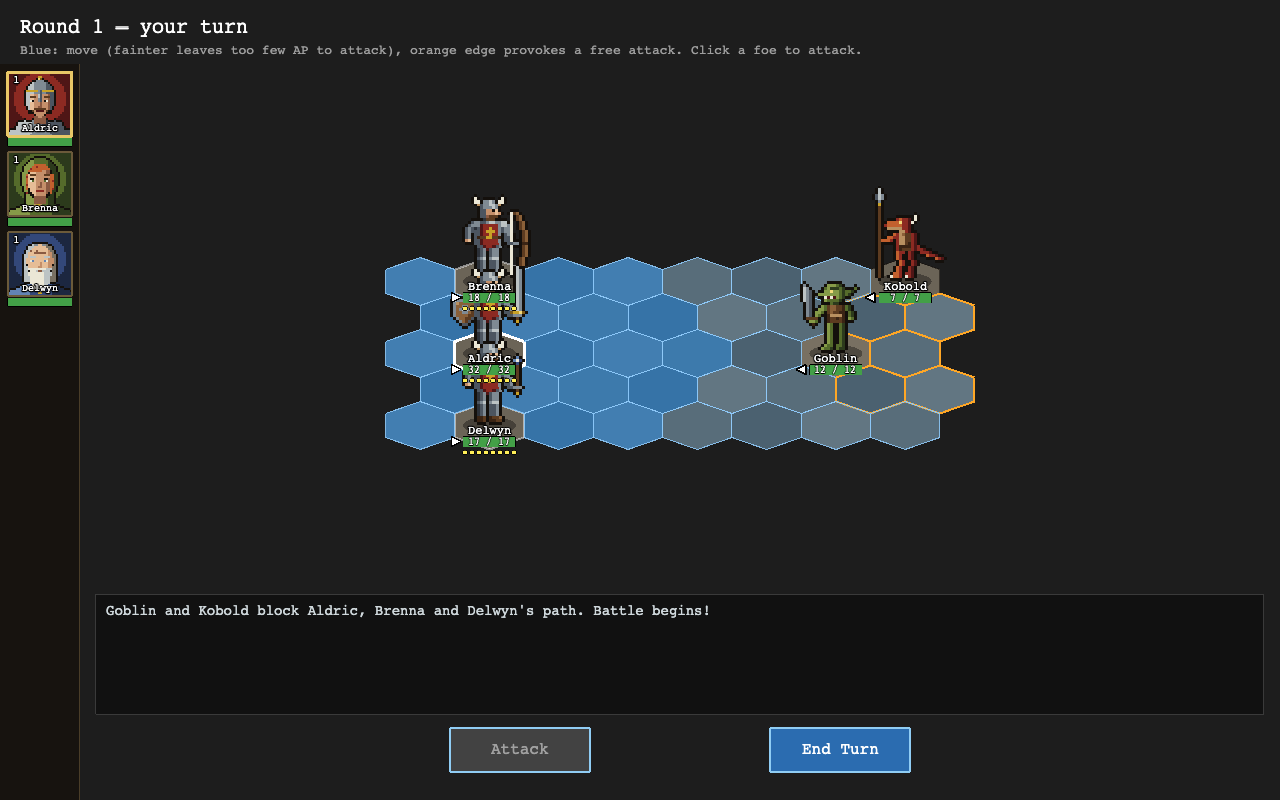
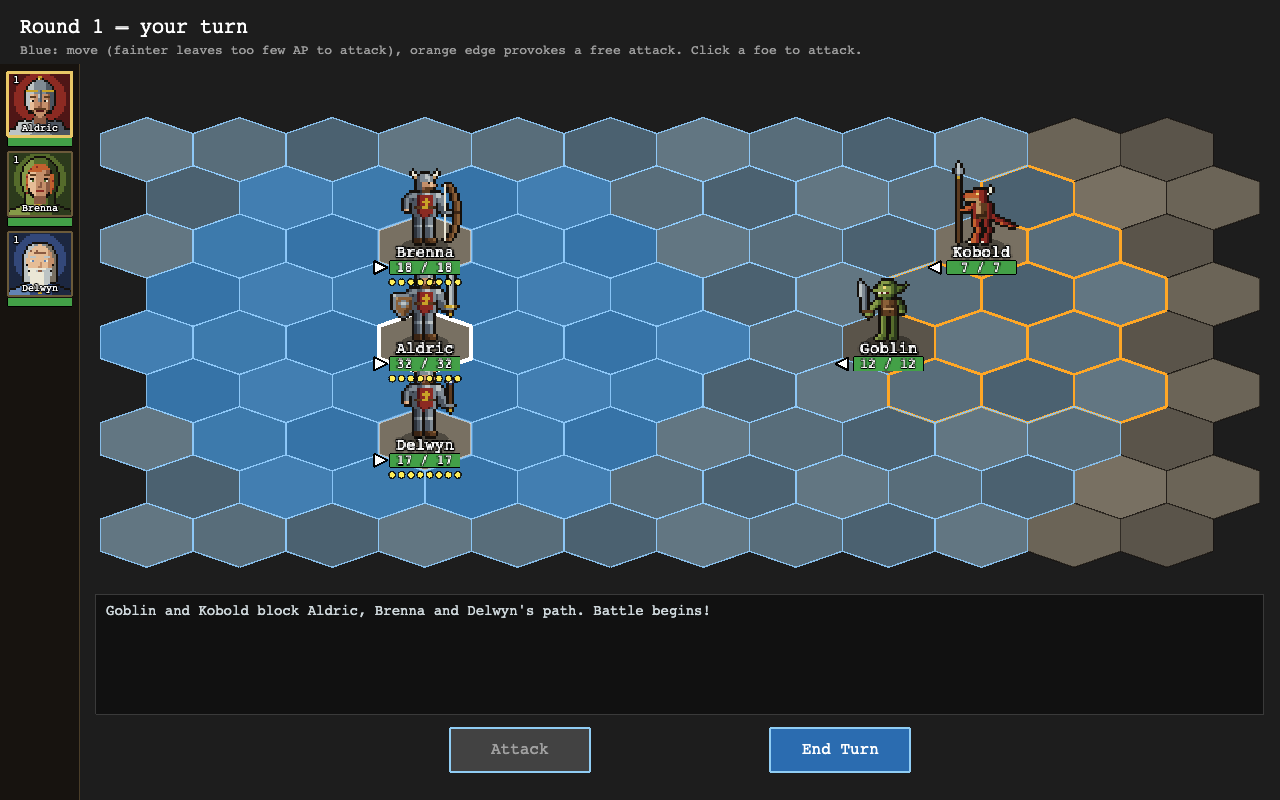
Fight battles on a 12x9 board, the lines two hexes in from every edge
Gives room to flank, fall back and come round. Both sides keep the
distance they had, shifted by whole pairs of rows to keep the odd-r
shape, so the campaign run holds: 342 of 500 beat the Source (was 344).

diff --git a/src/game/encounters.ts b/src/game/encounters.ts
@@ -15,11 +15,11 @@ export function heroId(index: number): UnitId {
 
 /**
  * Where the party lines up, as [column, row], in party order: the first three
- * down the second column with a hex between them, so their sprites and
+ * down the fourth column with a hex between them, so their sprites and
  * nameplates stand clear of each other, and the rest in the gaps behind.
  * Every encounter's board must have these hexes, and keep its foes off them.
  */
-const PARTY_START: ReadonlyArray<readonly [number, number]> = [[1, 2], [1, 0], [1, 4], [0, 1], [0, 3], [0, 2]]
+const PARTY_START: ReadonlyArray<readonly [number, number]> = [[3, 4], [3, 2], [3, 6], [2, 3], [2, 5], [2, 4]]
 
 function partyUnits(party: readonly Fighter[]): UnitSetup[] {
   if (party.length > PARTY_START.length) throw new Error(`No room for a party of ${party.length}`)
@@ -85,7 +85,12 @@ const FOE_STATS: Record<FoeSlot['kind'], CombatantStats> = {
   horror: BLIGHT_HORROR_STATS,
 }
 
-const BOARD = { cols: 8, rows: 5 }
+/**
+ * Both sides line up in the middle, two hexes in from every edge, so there is
+ * ground on all sides to flank, fall back and come round on; shifting the
+ * lines by whole pairs of rows keeps the odd-r board's shape between them.
+ */
+const BOARD = { cols: 12, rows: 9 }
 
 /**
  * The party against the foes `threat` calls for: the first `FOES_AT_THREAT`
@@ -114,30 +119,30 @@ function encounter(party: readonly Fighter[], slots: readonly FoeSlot[], threat:
 }
 
 const GOBLIN_RAID: readonly FoeSlot[] = [
-  { id: 'goblin', kind: 'goblin', name: 'Goblin', at: [6, 2] },
-  { id: 'kobold', kind: 'kobold', name: 'Kobold', at: [7, 0] },
+  { id: 'goblin', kind: 'goblin', name: 'Goblin', at: [8, 4] },
+  { id: 'kobold', kind: 'kobold', name: 'Kobold', at: [9, 2] },
   // Third, so it takes the field from threat 2; at the back, off the party's hexes.
-  { id: 'shaman', kind: 'shaman', name: 'Goblin Shaman', at: [7, 2] },
-  { id: 'sneak', kind: 'kobold', name: 'Kobold Sneak', at: [7, 3] },
-  { id: 'cutter', kind: 'goblin', name: 'Goblin Cutter', at: [6, 4] },
-  { id: 'brute', kind: 'goblin', name: 'Goblin Brute', at: [7, 1] },
+  { id: 'shaman', kind: 'shaman', name: 'Goblin Shaman', at: [9, 4] },
+  { id: 'sneak', kind: 'kobold', name: 'Kobold Sneak', at: [9, 5] },
+  { id: 'cutter', kind: 'goblin', name: 'Goblin Cutter', at: [8, 6] },
+  { id: 'brute', kind: 'goblin', name: 'Goblin Brute', at: [9, 3] },
 ]
 
 const KOBOLD_SCOUTS: readonly FoeSlot[] = [
-  { id: 'scout', kind: 'kobold', name: 'Kobold Scout', at: [6, 0] },
-  { id: 'tracker', kind: 'kobold', name: 'Kobold Tracker', at: [6, 4] },
-  { id: 'trapper', kind: 'kobold', name: 'Kobold Trapper', at: [7, 2] },
-  { id: 'overseer', kind: 'goblin', name: 'Goblin Overseer', at: [6, 2] },
-  { id: 'whip', kind: 'goblin', name: 'Goblin Whip', at: [7, 4] },
+  { id: 'scout', kind: 'kobold', name: 'Kobold Scout', at: [8, 2] },
+  { id: 'tracker', kind: 'kobold', name: 'Kobold Tracker', at: [8, 6] },
+  { id: 'trapper', kind: 'kobold', name: 'Kobold Trapper', at: [9, 4] },
+  { id: 'overseer', kind: 'goblin', name: 'Goblin Overseer', at: [8, 4] },
+  { id: 'whip', kind: 'goblin', name: 'Goblin Whip', at: [9, 6] },
 ]
 
 // The Horror first, so it takes the field at any threat; the Source is fought at the top.
 const SOURCE_GUARDIANS: readonly FoeSlot[] = [
-  { id: 'horror', kind: 'horror', name: 'Blight Horror', at: [6, 2] },
-  { id: 'brute', kind: 'goblin', name: 'Goblin Brute', at: [6, 0] },
-  { id: 'shaman', kind: 'shaman', name: 'Blight Shaman', at: [7, 2] },
-  { id: 'sneak', kind: 'kobold', name: 'Kobold Sneak', at: [6, 4] },
-  { id: 'cutter', kind: 'goblin', name: 'Goblin Cutter', at: [7, 4] },
+  { id: 'horror', kind: 'horror', name: 'Blight Horror', at: [8, 4] },
+  { id: 'brute', kind: 'goblin', name: 'Goblin Brute', at: [8, 2] },
+  { id: 'shaman', kind: 'shaman', name: 'Blight Shaman', at: [9, 4] },
+  { id: 'sneak', kind: 'kobold', name: 'Kobold Sneak', at: [8, 6] },
+  { id: 'cutter', kind: 'goblin', name: 'Goblin Cutter', at: [9, 6] },
 ]
 
 /**

diff --git a/e2e/battle.test.ts b/e2e/battle.test.ts
@@ -14,7 +14,7 @@ describe('a battle', () => {
     const start = await game.enterBattle()
     expect(start.selected).toBe('hero_1')
 
-    const to = offsetToHex(3, 2)
+    const to = offsetToHex(5, 4)
     await game.click(battleHexOnScreen(start, to))
     const moved = await game.awaitTurn()
     expect(hero(moved)).toMatchObject({ position: to, ap: 6 })
@@ -115,7 +115,7 @@ describe('a battle', () => {
     await game.waitFor('Battle', (b) => b.spellMenu === null)
     expect(await game.scenes()).toEqual({ running: ['Battle'], paused: [] })
 
-    await game.click(battleHexOnScreen(selected, offsetToHex(3, 3)))
+    await game.click(battleHexOnScreen(selected, offsetToHex(5, 5)))
     const near = await game.waitFor('Battle', (b) => b.playerControl && mage(b).ap === 5)
 
     await game.press('m')
@@ -244,7 +244,7 @@ describe('a battle', () => {
     await game.press('Escape')
     await game.waitForScenes(['Battle'])
     const battle = await game.awaitTurn()
-    const to = offsetToHex(3, 2)
+    const to = offsetToHex(5, 4)
     await game.click(battleHexOnScreen(battle, to))
     expect(hero(await game.awaitTurn())).toMatchObject({ position: to })
   })

diff --git a/e2e/saves.test.ts b/e2e/saves.test.ts
@@ -43,11 +43,11 @@ describe('save slots', () => {
   it('opens a game saved in battle in that battle, as it stood when the player’s turn began', async () => {
     const game = await games.open()
     const start = await game.enterBattle()
-    await game.click(battleHexOnScreen(start, offsetToHex(3, 2)))
+    await game.click(battleHexOnScreen(start, offsetToHex(5, 4)))
     await game.click((await game.awaitTurn()).buttons.endTurn)
     const saved = await game.waitFor('Battle', (b) => b.playerControl && b.state.round === 2)
     // What is done after the turn began is not kept: a reload rewinds to its start.
-    await game.click(battleHexOnScreen(saved, offsetToHex(4, 2)))
+    await game.click(battleHexOnScreen(saved, offsetToHex(6, 4)))
     await game.waitFor('Battle', (b) => b.playerControl && b.log.length > saved.log.length)
 
     const menu = await game.reload()

diff --git a/e2e/manual.shots.ts b/e2e/manual.shots.ts
@@ -102,7 +102,7 @@ describe('the manual’s screenshots', () => {
     const hero = battle.state.units.find((u) => u.id === 'hero_1')!
     const foes = battle.state.units.filter((u) => u.side === 'enemy')
     const nearest = foes.reduce((a, b) => (hexDistance(hero.position, b.position) < hexDistance(hero.position, a.position) ? b : a))
-    await game.hover(battleHexOnScreen(battle, offsetToHex(3, 2)))
+    await game.hover(battleHexOnScreen(battle, offsetToHex(5, 4)))
     await shot(game, 'battle-move')
     await game.hover(battleHexOnScreen(battle, nearest.position))
     await shot(game, 'battle-attack')
